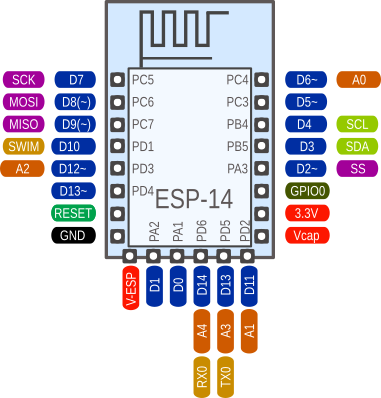
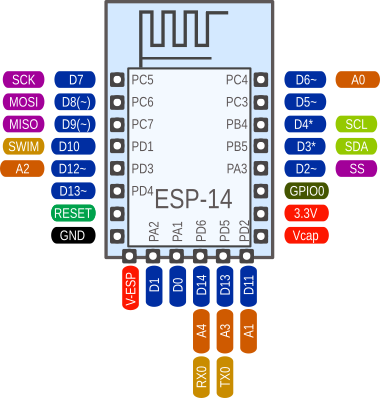
add details for the pin descriptions

diff --git a/examples/sdcc-examples-stm8/blinky.c b/examples/sdcc-examples-stm8/blinky.c
@@ -1,4 +1,4 @@
-#include "stm8l.h"
+#include "stm8s.h"
 
 int main() {
 	int d;

diff --git a/docs/hardware/stm8blue.md b/docs/hardware/stm8blue.md
@@ -66,16 +66,26 @@ this mapping:
 
 ![STM8S103 breakout board pin mapping](stm8blue.png)
 
+The pins D3/D4 (SDA/SCL, PB5/PB4) are different from the others as they are
+true open drain pins. That means, they only can drive the output low or
+open. To drive it high, they require the of an external pull-up resistor.
+This is the reason why the LED on this breakout is connected between +3.3V
+and the pins and not between the pin GND as usual. This way it is possible
+to drive the LED by writing a zero to the output register.
+
+
+
 sduino pin	| STM8S103 CPU port pin
 ----------	| ---------------------
- 0-2		| PA1-PA3
+ 0-2		| PA1-PA3 (PA1 and PA2 only weak output drivers)
  3-4		| PB5-PB4 (reverse order)
  5-9		| PC3-PC7
 10-15		| PD1-PD6
 
 serial: 14,15  
 SPI: 2,7,8,9  
-I2C: 3,4  
+I2C: 3,4 (true open drain. can't drive a high signal without an external
+pull-up resistor)
 Analog: 6,11,12,14,15  
 PWM: 2,5,6,12 plus either only 13 or 7-9 but not 13 (via alternate mapping)  
 
